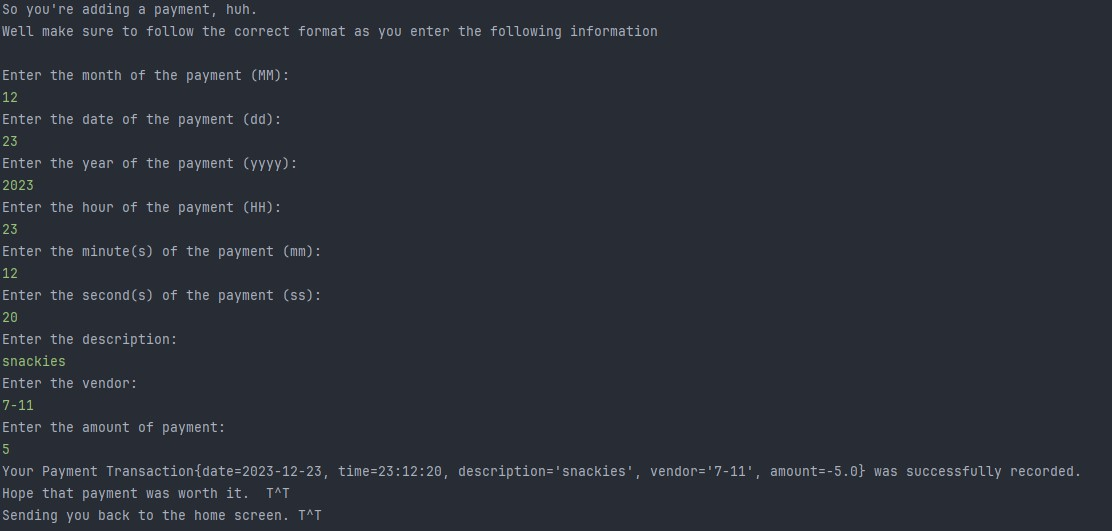
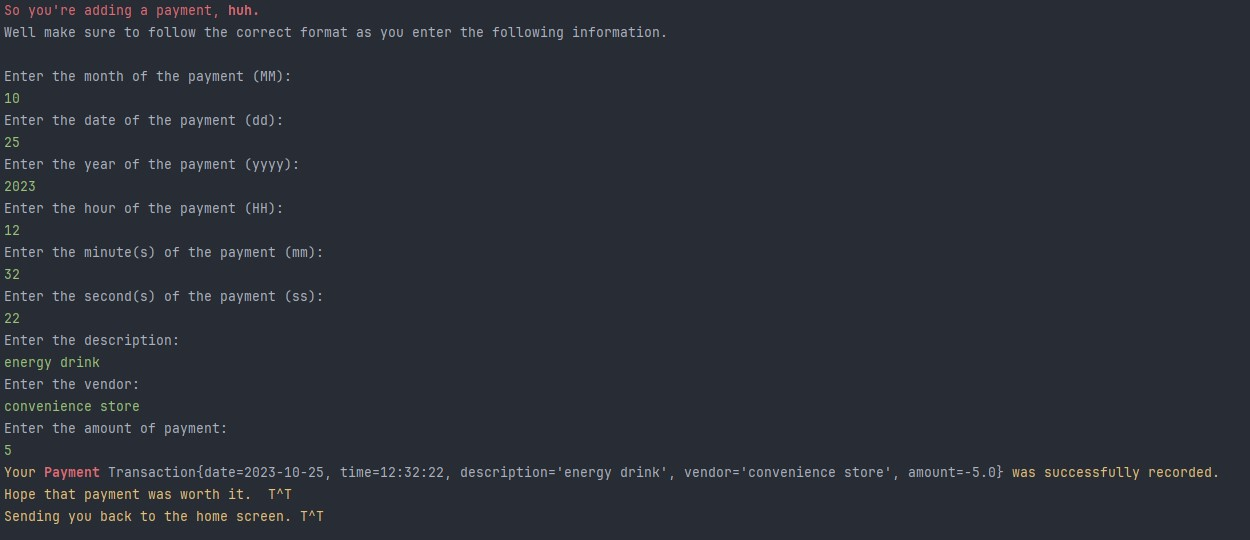
updated a lot of the README.md

diff --git a/src/main/java/com/pluralsight/FinancialTracker.java b/src/main/java/com/pluralsight/FinancialTracker.java
@@ -177,7 +177,7 @@ ArrayList transaction = transactionReader.toString
                 e.printStackTrace();
             }
         } catch (Exception yo) {
-            System.out.println(YELLOW + "Uh-oh, an error!\nYou did this wrong.\nGo start over.\n" + RESET);
+            System.out.println(YELLOW + "Uh-oh, an error!\nHow'd you do this wrong?\nGo start over and read carefully.\n" + RESET);
         }
 
     }
@@ -229,9 +229,10 @@ ArrayList transaction = transactionReader.toString
                     vendorOfPayment, realPaymentAmount);
             transactions.add(paymentTransaction);
 
-            System.out.println("Your Payment " + paymentTransaction + " was successfully recorded.");
+            System.out.println(YELLOW + "Your " + RED_BOLD + "Payment " + RESET + paymentTransaction + YELLOW + " was successfully recorded." + RESET);
             System.out.println(YELLOW + "Hope that payment was worth it.  T^T");
             System.out.println("Sending you back to the home screen. T^T\n" + RESET);
+            Thread.sleep(500);
 
 
             try {
@@ -248,11 +249,11 @@ ArrayList transaction = transactionReader.toString
                 buffWriter.close();
 
             } catch (IOException e) {
-                System.out.println("Failed to save data");
+                System.out.println(YELLOW + "Oops. Failed to save data" + RESET);
                 e.printStackTrace();
             }
         } catch (Exception e) {
-            System.out.println("You input some information incorrectly. Please be careful next time and try again\n");
+            System.out.println(YELLOW + "You input some information incorrectly. Be careful next time and try again\n" + RESET);
         }
     }
 

diff --git a/README.md b/README.md
@@ -5,7 +5,7 @@
     With this program you can track the deposits and payments of money you make while also keeping 
     track of when it happened.
 ### Main Menu
-![transactionAppTitle.jpg](screenshots%2FtransactionAppTitle.jpg)
+![Animation.gif](screenshots%2FAnimation.gif)
 ### AddDeposit
 ![addDeposit.jpg](screenshots%2FaddDeposit.jpg)
 ### AddPayment
@@ -14,20 +14,32 @@
 ![ledger.jpg](screenshots%2Fledger.jpg)
 ### Error
 ![error.jpg](screenshots%2Ferror.jpg)
+## Special Feature
+    Some things that I think are pretty cool in this program are the colors I incorpor-
+    ated in the text and the little animated text I have for some of the options.
+    But my favorite thing has to be that I tried to give the program a little personality
+    so instead of just giving information to the user, it's as if it's telling you some-
+    thing.
+
+## Special Feature gif
+![loading.gif](screenshots%2Floading.gif)
 ## Setup
 - In order to run this program on your computer, you will need IntelliJ and GitBash on your computer.
 - Then clone the repository: git clone https://github.com/OnionWithLayers/financial-tracker.git cd financial-tracker
 - Next compile the code: javac FinancialTracker.java
 - Run the Application: java FinancialTracker
 ## Future Work
-    To improve this program what I would do is change how accessible the user input would be for 
-    information regarding the payments and deposits. I tried to make it a little simpler by having the 
-    user type in the date and time components seperately, but I would like to make it so that the user would be 
-    given a fill-in-the-blank type of format so the user can input the information quicker and more efficiently.
+    The biggest thing I would like to improve on in this program is the organization. I only have 2 classes for
+    this project and I think it would have helped if there were more classes to help myself navigate through 
+    everything.
+    Another improvement I would make is change how accessible the user input would be regarding the payments and 
+    deposits. I tried to make it a little simpler by having the user type in the date and time components seperately,
+    but I would like to make it so that the user would be given a fill-in-the-blank type of format so the user can
+    input the information quicker and more efficiently.
     I would also like to give the program little functioning emojis that made it seem like the app had more per-
     sonality since I think that it would be boring if it was just information. Another thing would be the pacing 
-    of information displayed. I tried to work around some of it by adding a small "loading..." text, but I 
-    figured it didn't see quite appropriate to add it into every section.
+    of information displayed. I tried to work around some of it by adding a small animated text, but I figured
+    it didn't seem quite appropriate to add it into every section.
 ## Special Thanks
 - [Raymond Maroun](https://github.com/RayMaroun) for teaching me everything I know about Java so far; he's provided me with a lot of guidance and a skeleton to this assignment to help me.
 - My Year Up cohort for being super supportive and helping me with study sessions after class.
